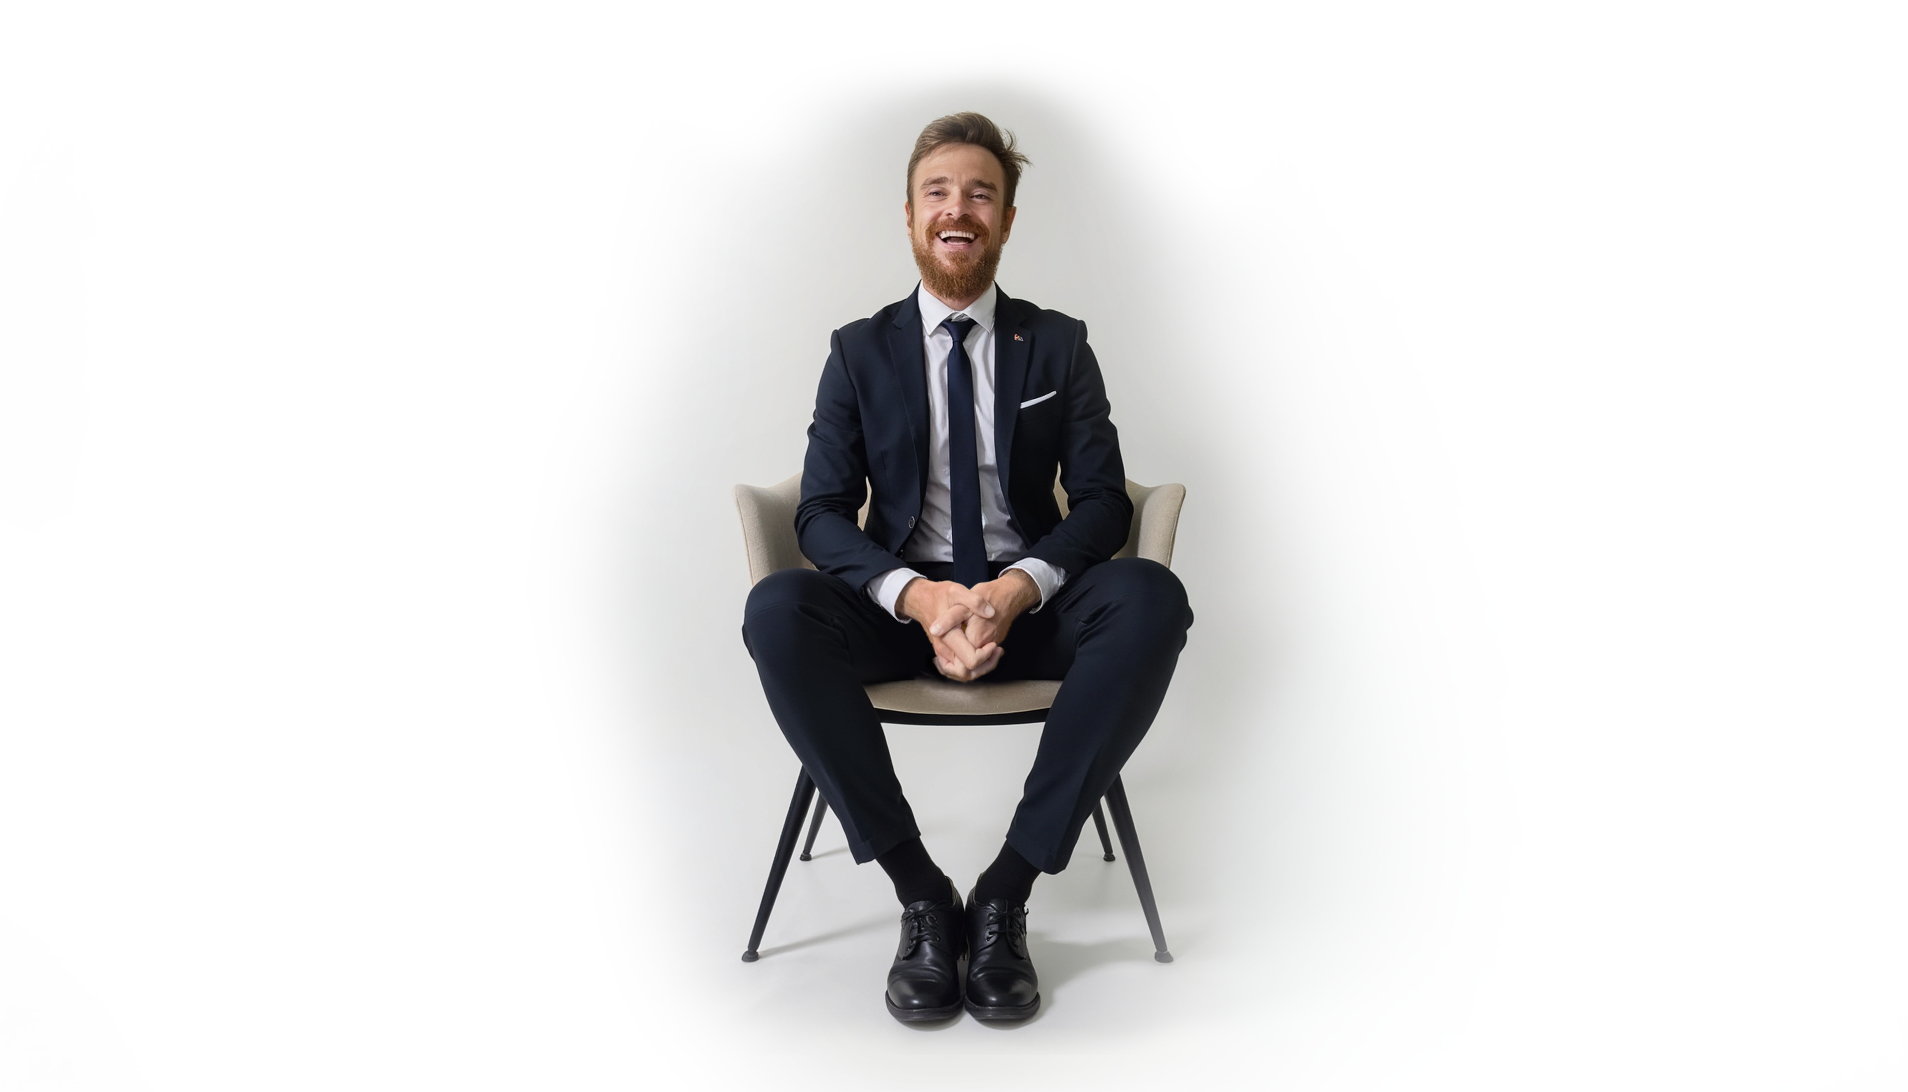
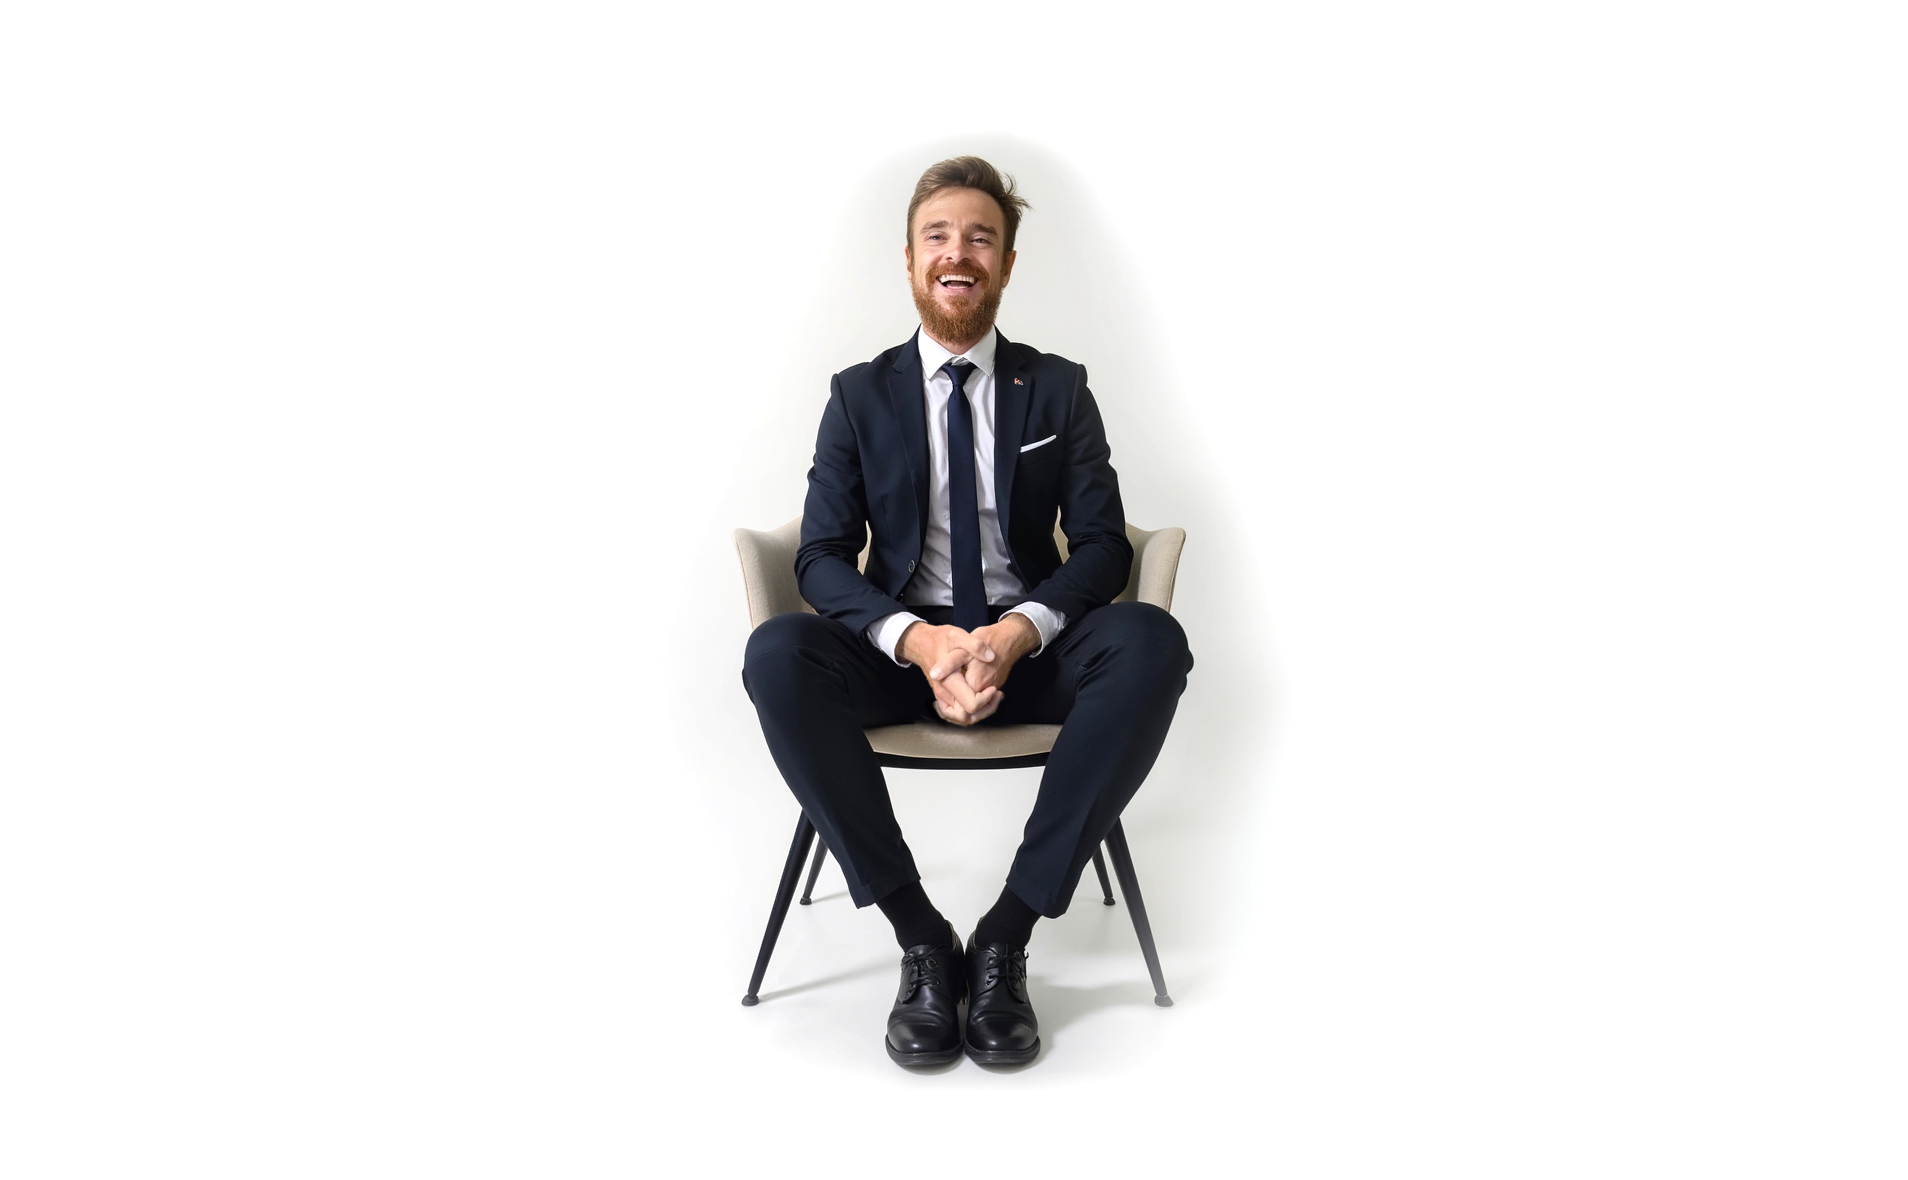
tweaked the chairsitter photo and adjusted the text columns for mobile

Changed region(s): [[0.3092, 0.0623, 0.6803, 0.9652]]

diff --git a/index.html b/index.html
@@ -96,16 +96,6 @@
         </div>
       </div><!-- /text -->
 
-      <div class="text">
-        <div>
-          <h1>My Story</h1>
-          <p>
-              My timeline, and how I came to be a designer focused on the Longview. From social justice communication design to Software as a service for huge corporations and on to scientific research it’s been a fun career with a lot of interesting twists. Learn how it came together for me as a product designer.
-              <a class="button" href="./digitalproduct.html">Step through time</a>
-           </p>
-        </div>
-      </div><!-- /text -->
-
       <div class="footer" id="contact">
         <div class="spacer">
           <div class="contactinfo">

diff --git a/css/style.css b/css/style.css
@@ -51,7 +51,8 @@
 }
 
 .scroller .text > div {
-  width: 24vw;
+  aspect-ratio: 1 / 2;
+  height: 100%;
 }
 
 /* Figures */
